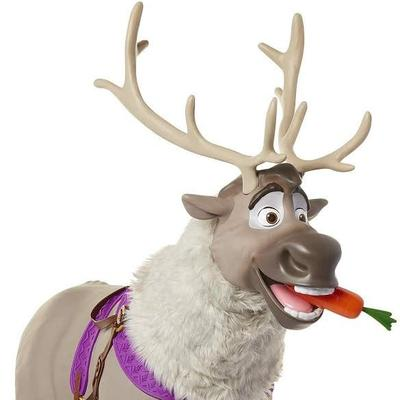
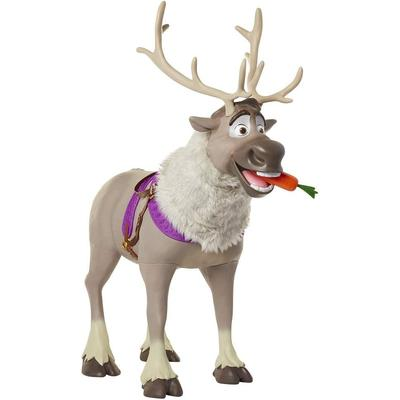
Kid Space: pad thumbnails to square + contain so full character stays in frame (no clipped heads/bodies)

diff --git a/hf-kid-space/app.py b/hf-kid-space/app.py
@@ -154,7 +154,7 @@ with gr.Blocks(title="How does the computer know?", css=CSS) as demo:
 
     gallery_header = gr.Markdown("### Tap a picture")
     gallery = gr.Gallery(value=THUMB_PATHS, show_label=False, columns=3,
-                         object_fit="cover", allow_preview=False)
+                         object_fit="contain", allow_preview=False)
 
     gallery.select(
         on_select, None,
